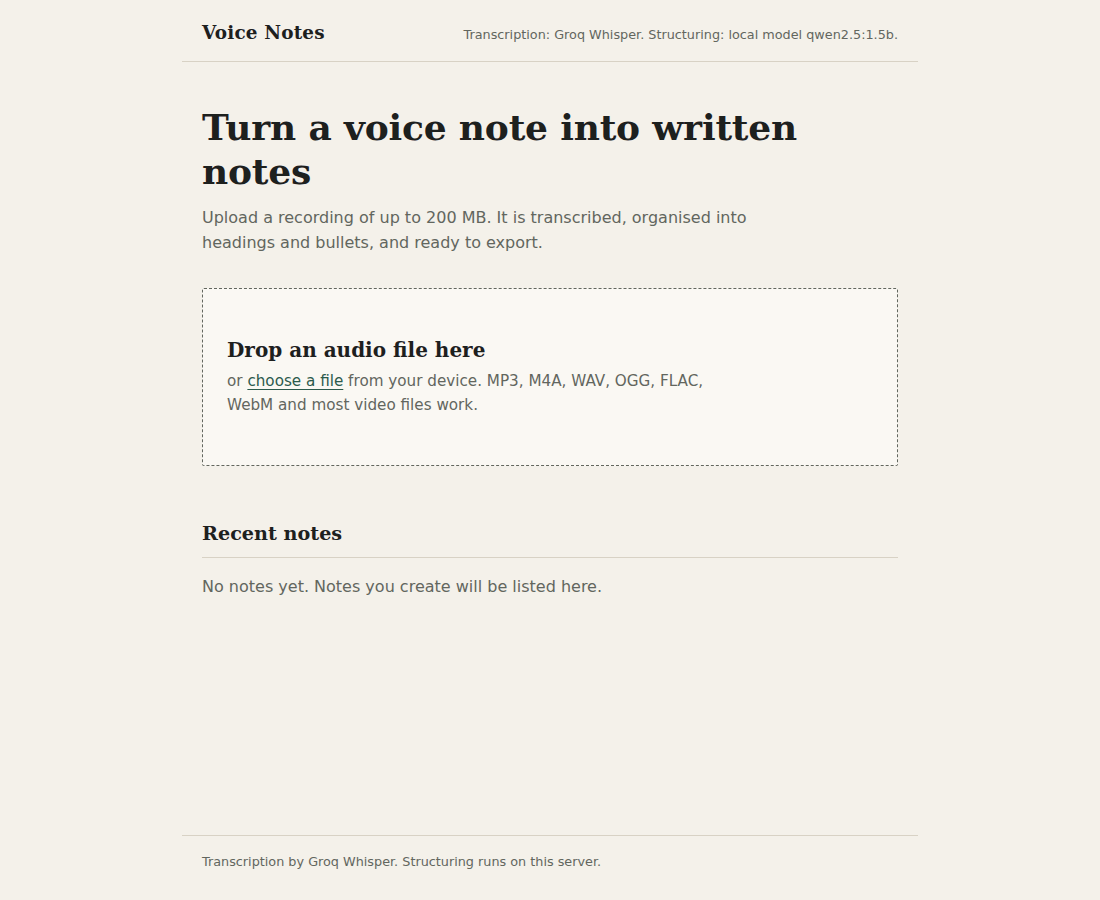
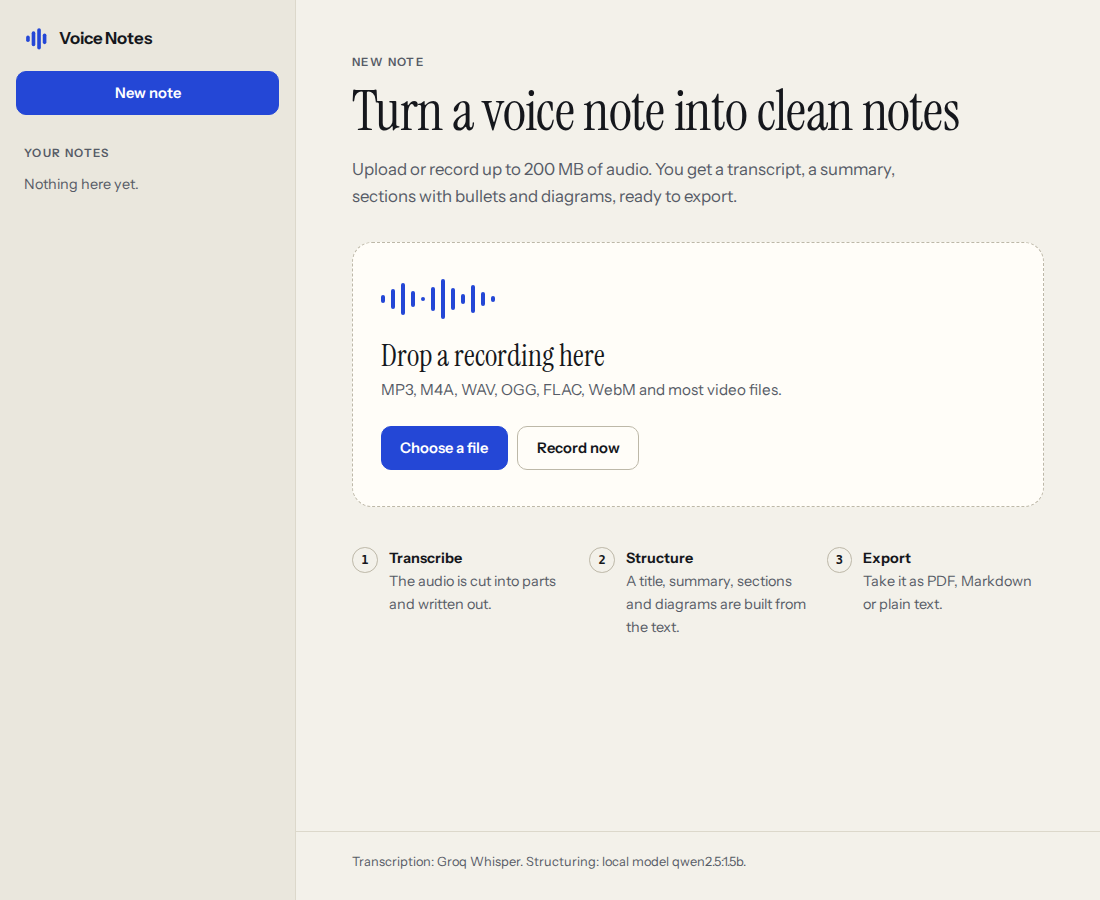
Update the README and screenshots for the new design and diagrams

diff --git a/README.md b/README.md
@@ -14,13 +14,26 @@ I built it for my own use: I record ideas while walking, and I want to find clea
 
 ## Features
 
-- Upload audio or video files up to 200 MB (MP3, M4A, WAV, OGG, FLAC, WebM, MP4 and more), by drag and drop or file picker.
+- Upload audio or video files up to 200 MB (MP3, M4A, WAV, OGG, FLAC, WebM, MP4 and more), by drag and drop or file picker, or record straight from the browser (needs https or localhost for microphone access).
 - Long recordings are converted and split with ffmpeg into chunks well under Groq's 25 MB free tier limit, transcribed one by one and joined.
-- Structuring with a small local model served by Ollama. If Ollama is not running, a rule-based fallback still produces a title, summary and sections, and the interface says which one was used.
-- Export to PDF, TXT or Markdown, with or without the full transcript.
-- Live progress through each step, clear error messages, and a list of recent notes that survives a restart.
+- Structuring with a small local model served by Ollama. If Ollama is not running, a rule-based fallback still produces a title, summary and sections, and the interface says which one was used. If the model fails on one part of a long note, only that part falls back to the rules.
+- Diagrams built from the notes where they help: a mind map of the sections, a process flow when the speaker describes steps in order, and a bar chart when several amounts or percentages are mentioned. They appear in the online notes and in the PDF. See the next section.
+- Export to PDF, TXT or Markdown, with or without the full transcript (split into readable paragraphs).
+- Live progress through each step, clear error messages, and a list of notes that survives a restart. Failed notes can be removed.
 - Keyboard friendly, works on phones, follows the system light or dark setting.
-- No build step: the frontend is plain HTML, CSS and JavaScript.
+- No build step: the frontend is plain HTML, CSS and JavaScript. The two typefaces (Instrument Sans and Instrument Serif) are bundled, so nothing is loaded from another site.
+
+## Diagrams
+
+Diagrams are derived from the finished notes, never invented, and they only appear when the notes support them:
+
+| Diagram | Shown when |
+| --- | --- |
+| Mind map | The note has three or more sections. The title is the center, sections are branches, and the first points of each section are the leaves. |
+| Process | A section reads as a sequence (at least two bullets that start with words such as first, then, next, finally, or step 1, in English, French or Spanish), or a similar sequence is spread over the note. |
+| Key figures | At least three bullets mention a number with the same unit (percent, euros, dollars, pounds, hours, minutes, days, weeks, months, km, kg) and the values differ. |
+
+Each diagram is computed by `app/visuals.py` as a small drawing in two layouts: a wide one for large screens and the PDF, and a narrow one for phones. The page turns the drawing into inline SVG that follows the light and dark theme; the PDF export draws the same shapes. Old notes get diagrams too, since nothing extra is stored.
 
 ## Screenshots
 
@@ -100,7 +113,7 @@ The app has no login. Anyone who can reach the port can upload files and spend y
 | `GET` | `/api/health` | Server status: ffmpeg, key present, Ollama state. |
 | `POST` | `/api/notes` | Multipart upload with a `file` field. Returns `{"id": ...}` with status 202. |
 | `GET` | `/api/notes` | Recent notes. |
-| `GET` | `/api/notes/{id}` | Status, progress, transcript and notes. |
+| `GET` | `/api/notes/{id}` | Status, progress and, once done, the notes, the transcript (also as `transcript_paragraphs`) and the `visuals` drawings. |
 | `GET` | `/api/notes/{id}/export?format=pdf\|txt\|md&transcript=true` | Download an export. |
 | `DELETE` | `/api/notes/{id}` | Delete a note. |
 
@@ -118,7 +131,7 @@ playwright install chromium
 pytest tests/e2e
 ```
 
-They cover upload validation, the full upload to export flow (PDF, TXT and Markdown downloads), error screens, keyboard use, text contrast in light and dark mode, and a phone sized layout. Set `SCREENSHOT_DIR` to save screenshots of each screen.
+They cover upload validation, the full upload to export flow (PDF, TXT and Markdown downloads), error screens, keyboard use, recording with a fake microphone, text contrast in light and dark mode, and the layout at desktop, tablet and phone widths: nothing may overflow, and the text of every diagram is measured to sit inside its box and keep readable contrast. Set `SCREENSHOT_DIR` to save screenshots of each screen.
 
 ## Project layout
 
@@ -129,6 +142,7 @@ app/
   audio.py        ffmpeg conversion and chunking
   transcribe.py   Groq client
   structure.py    Ollama structuring and the rule-based fallback
+  visuals.py      mind map, process and chart drawings built from the notes
   export.py       PDF, TXT and Markdown output
   static/         the web interface
 tests/            backend tests and tests/e2e browser tests
@@ -142,7 +156,9 @@ deploy/           example systemd unit
 - Chunks are cut at fixed times, so a word at a boundary can occasionally be split.
 - PDF export covers Latin, Greek and Cyrillic text. Arabic, Hebrew and Chinese are not rendered correctly yet.
 - Notes cannot be edited in the interface yet.
+- Diagrams use simple rules on the note text. A note that never says its steps in order or never gives numbers will not get a process or chart, by design.
+- Recording in the browser is only offered on https or localhost, because browsers block the microphone elsewhere.
 
 ## License
 
-MIT. The bundled DejaVu fonts used for the PDF export have their own permissive license, included in `app/fonts`.
+MIT. The bundled DejaVu fonts used for the PDF export have their own permissive license, included in `app/fonts`. The Instrument Sans and Instrument Serif web fonts are under the SIL Open Font License, included in `app/static/fonts`.
